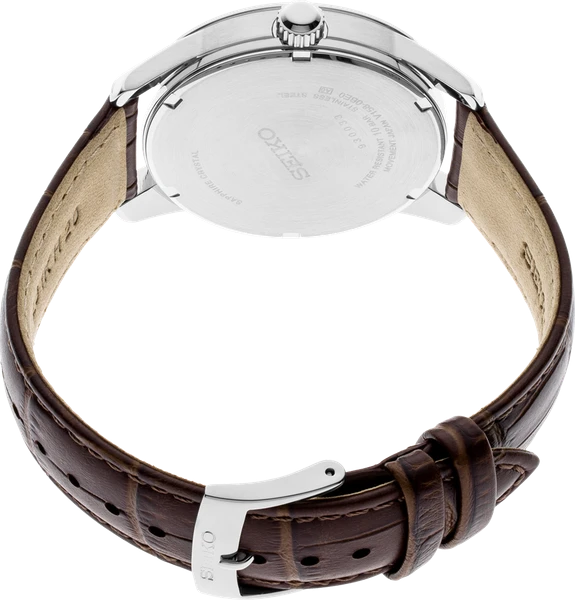
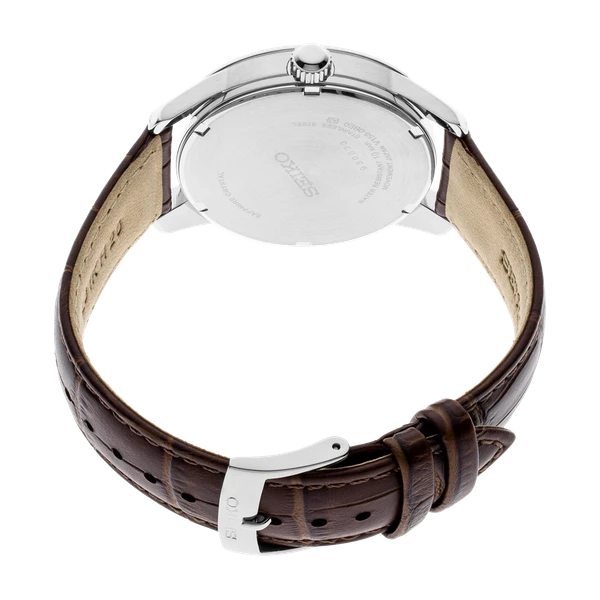
SNE529 ek kareleri ilk (cerceveli) hallerine dondu
Kullanicinin son karari: 'ilk haline don, ideal oran oydu'. Seiko'nun
saydam tuvalinde saat ~%50 oldugu icin orijinal tuvalde cok kucuk
kaliyordu. build-photo-sizes.mjs: SAYDAM_KIRP yerine ESKI_CERCEVE (kapak
yolu); dosyalar ilk halle birebir. Diger ek karelere dokunulmadi.

Claude-Session: https://claude.ai/code/session_01DDidaivs2B3H4tBARHLYJm

diff --git a/CLAUDE.md b/CLAUDE.md
@@ -529,12 +529,12 @@ metinler (`tagline`, `story`) `{ en, tr }` biçiminde. Arayüz şu an tek dil
    boyutlandırılır (aşağıda "EK KARE = ÜRETİCİNİN KADRAJI"); fon kesme
    tuzağı ek karelerde artık yok. Tek dikkat: A1000DN-7'nin `02.png`'si
    aslında JPEG (sunucudaki adıyla geldi) → aslı `.jpg` uzantısıyla koy.
-   **SNE529'un iki ek karesinde saydam boşluk kırpılıyor** (29 Eylül).
-   Seiko'nun 1231×1968 saydam tuvalinde saat ~%50; olduğu gibi bırakınca
-   karede küçülüyordu. Kullanıcı önce eski çerçeveyi seçti, önbellek
-   karışıklığı çözülünce üç hâli ekran görüntüsüyle görüp kırpılmışı seçti
-   (*"3. gerçekten güzel görünüyor"*). Betikte `SAYDAM_KIRP` istisnası;
-   görünür her piksel kalıyor (sınandı), saat 1030×920 px.
+   **SNE529'un iki ek karesi ilk (kapak gibi çerçeveli) hâlinde** (29 Eylül,
+   son karar). Seiko'nun 1231×1968 saydam tuvalinde saat ~%50. Üç hâl
+   denendi: çerçeveli (ilk), Seiko tuvali, saydam boşluk kırpılmış. Kullanıcı
+   sonunda ilkini seçti: *"SNE29da ilk haline dön o zaman ideal oran oydu."*
+   Betikte `ESKI_CERCEVE` istisnası; dosyalar ilk hâlle birebir (sınandı).
+   **Kapalı konu — tekrar açma.**
 7. ~~Rotasyon~~ — sitedeki rotasyon arayüzü **17 Eylül 2026'da kaldırıldı**,
    `data/wears.json` silindi. Yani "public derlemeden çıkar" maddesi düştü:
    çıkarılacak dosya yok. Kayıt HA'da birikiyor; yeterince veri olunca
@@ -1097,8 +1097,8 @@ becerisinin ele veren işaret diye saydığı şeyin ta kendisi. Zevk konusunda
   falan ekleme. Bıktım orjinal resimleri bozmandan."* Ek karede orijinal
   tuval — saydam boşluk olsa bile kırpma, pay/kenarlık ekleme, bunun için
   **soru da sorma.** Yalnızca site boyuna küçültülür (oran aynı kalır).
-  Tek istisna SNE529 (`SAYDAM_KIRP`): kırpılmış hâli kullanıcı bu kuraldan
-  önce kendisi seçmişti; kuraldan sonra ne olacağı soruldu.
+  Tek istisna SNE529 (`ESKI_CERCEVE`, kapak gibi çerçeveli): kullanıcı kuraldan
+  sonra da onun ilk hâlini seçti — *"ideal oran oydu"*. Başka kareye genelleme.
   **Ders:** bir kural bir iş için konduysa başka işe taşımadan önce sor.
 - Detay sayfasında fotoğrafa tıklayınca büyük hâli açılır; **görselin kendisine,
   boşluğa ya da kapat düğmesine tıklamak da, Escape de kapatır.**
